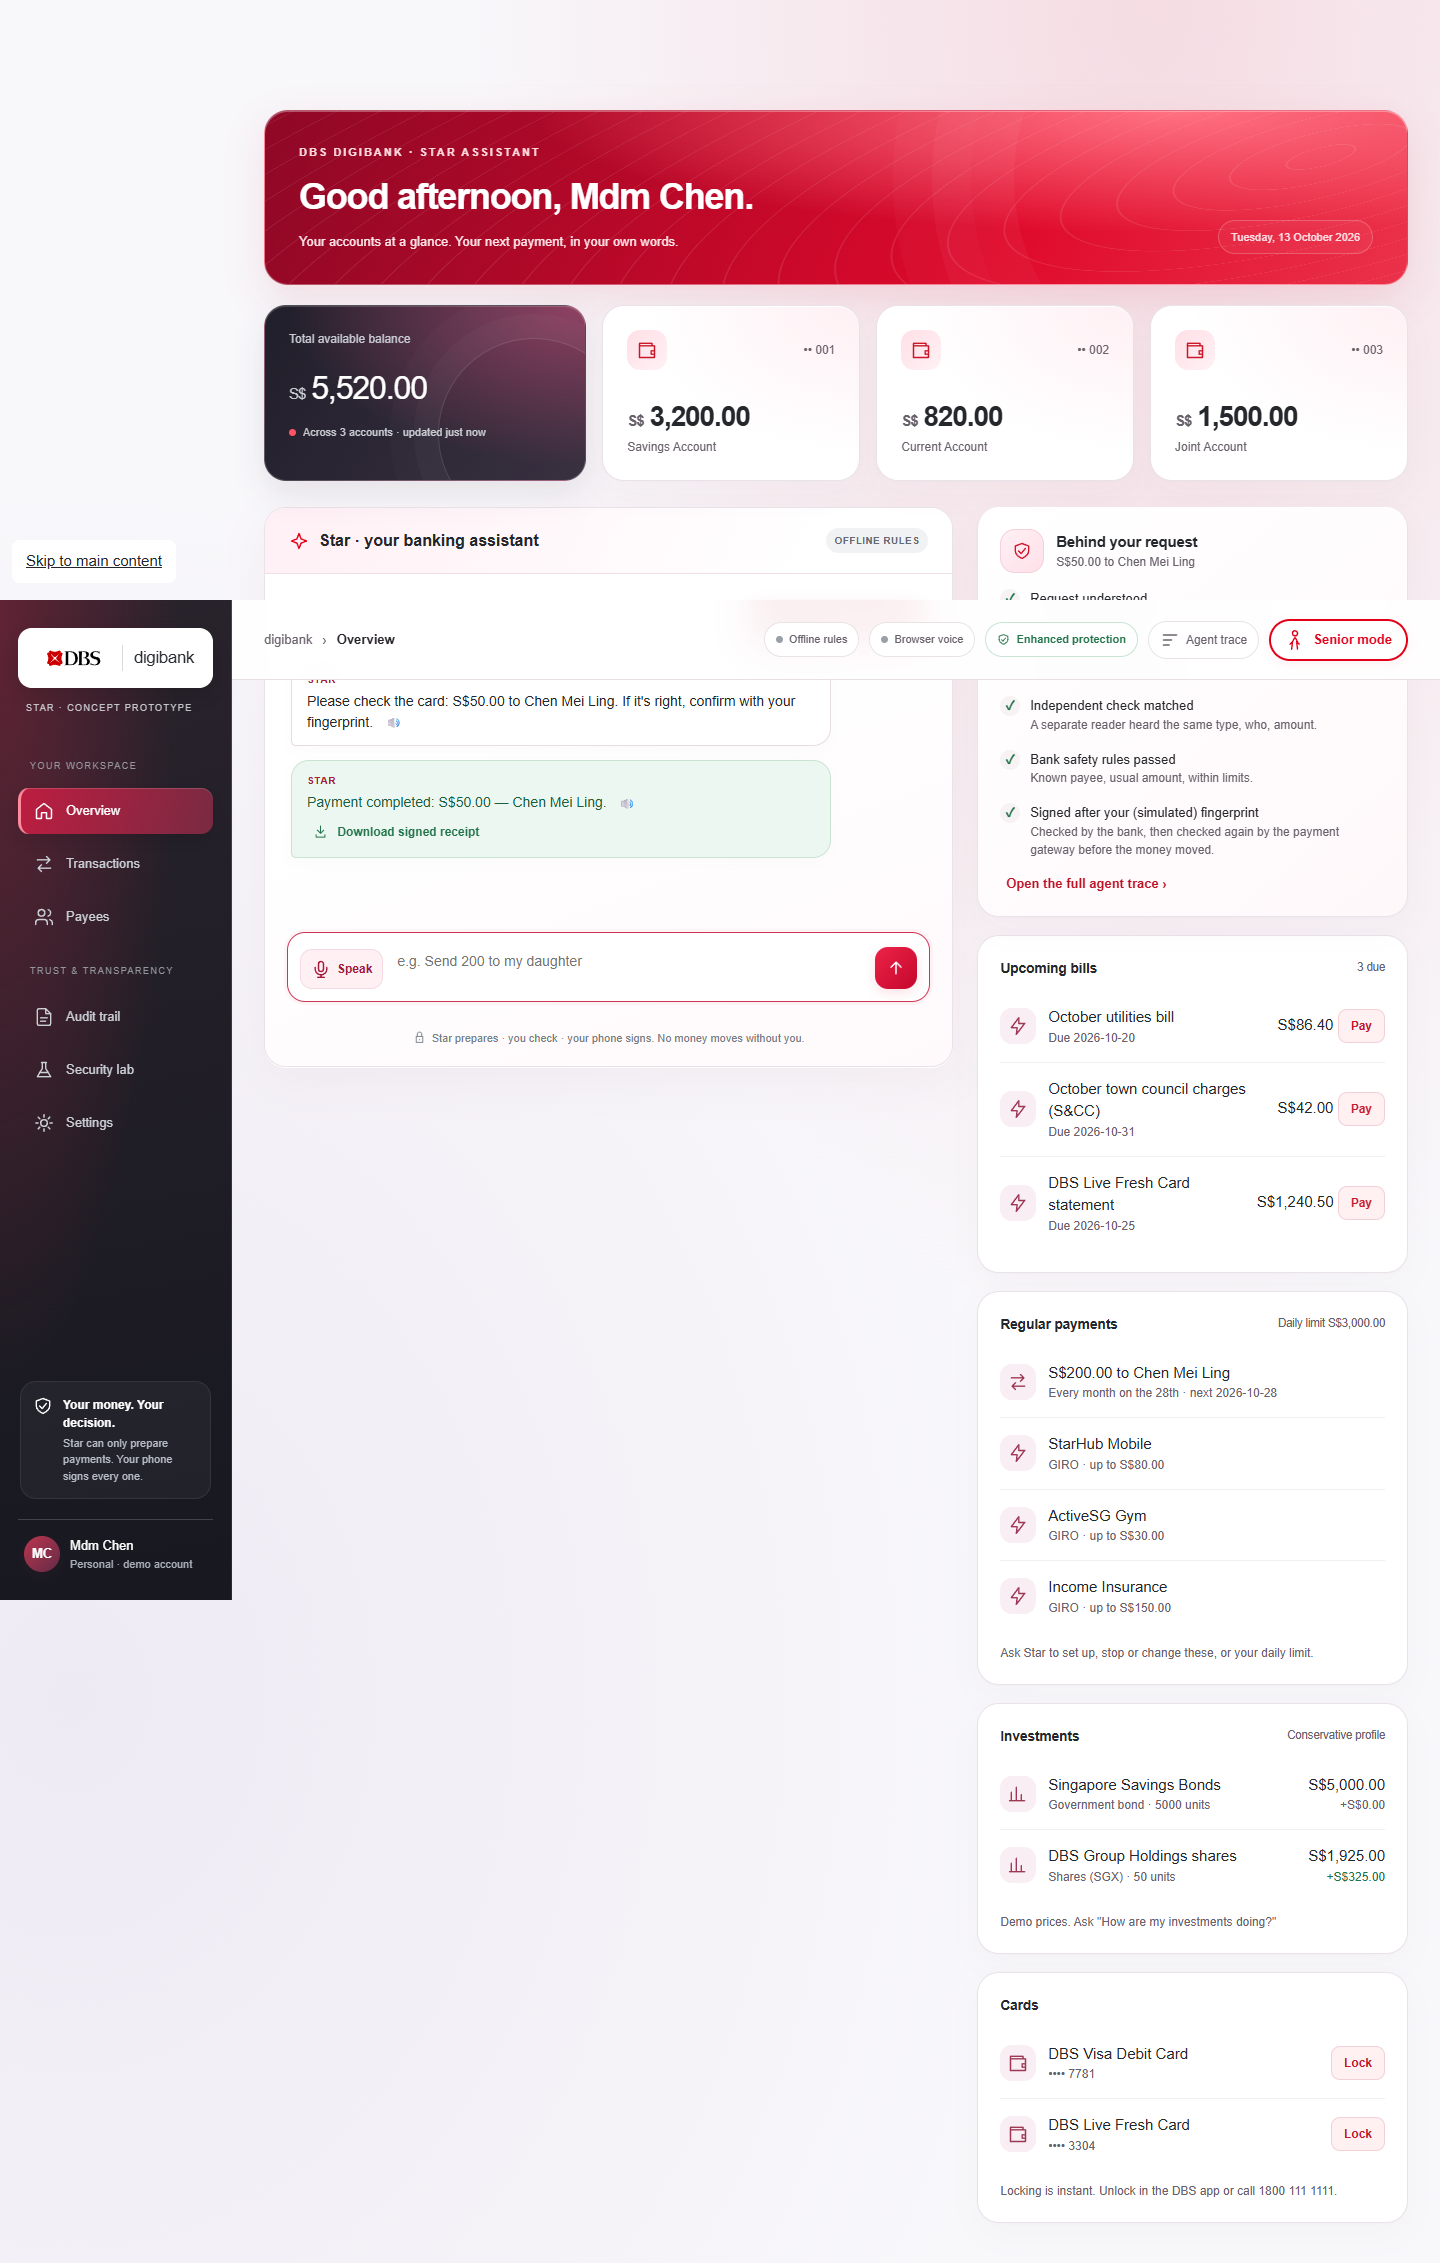
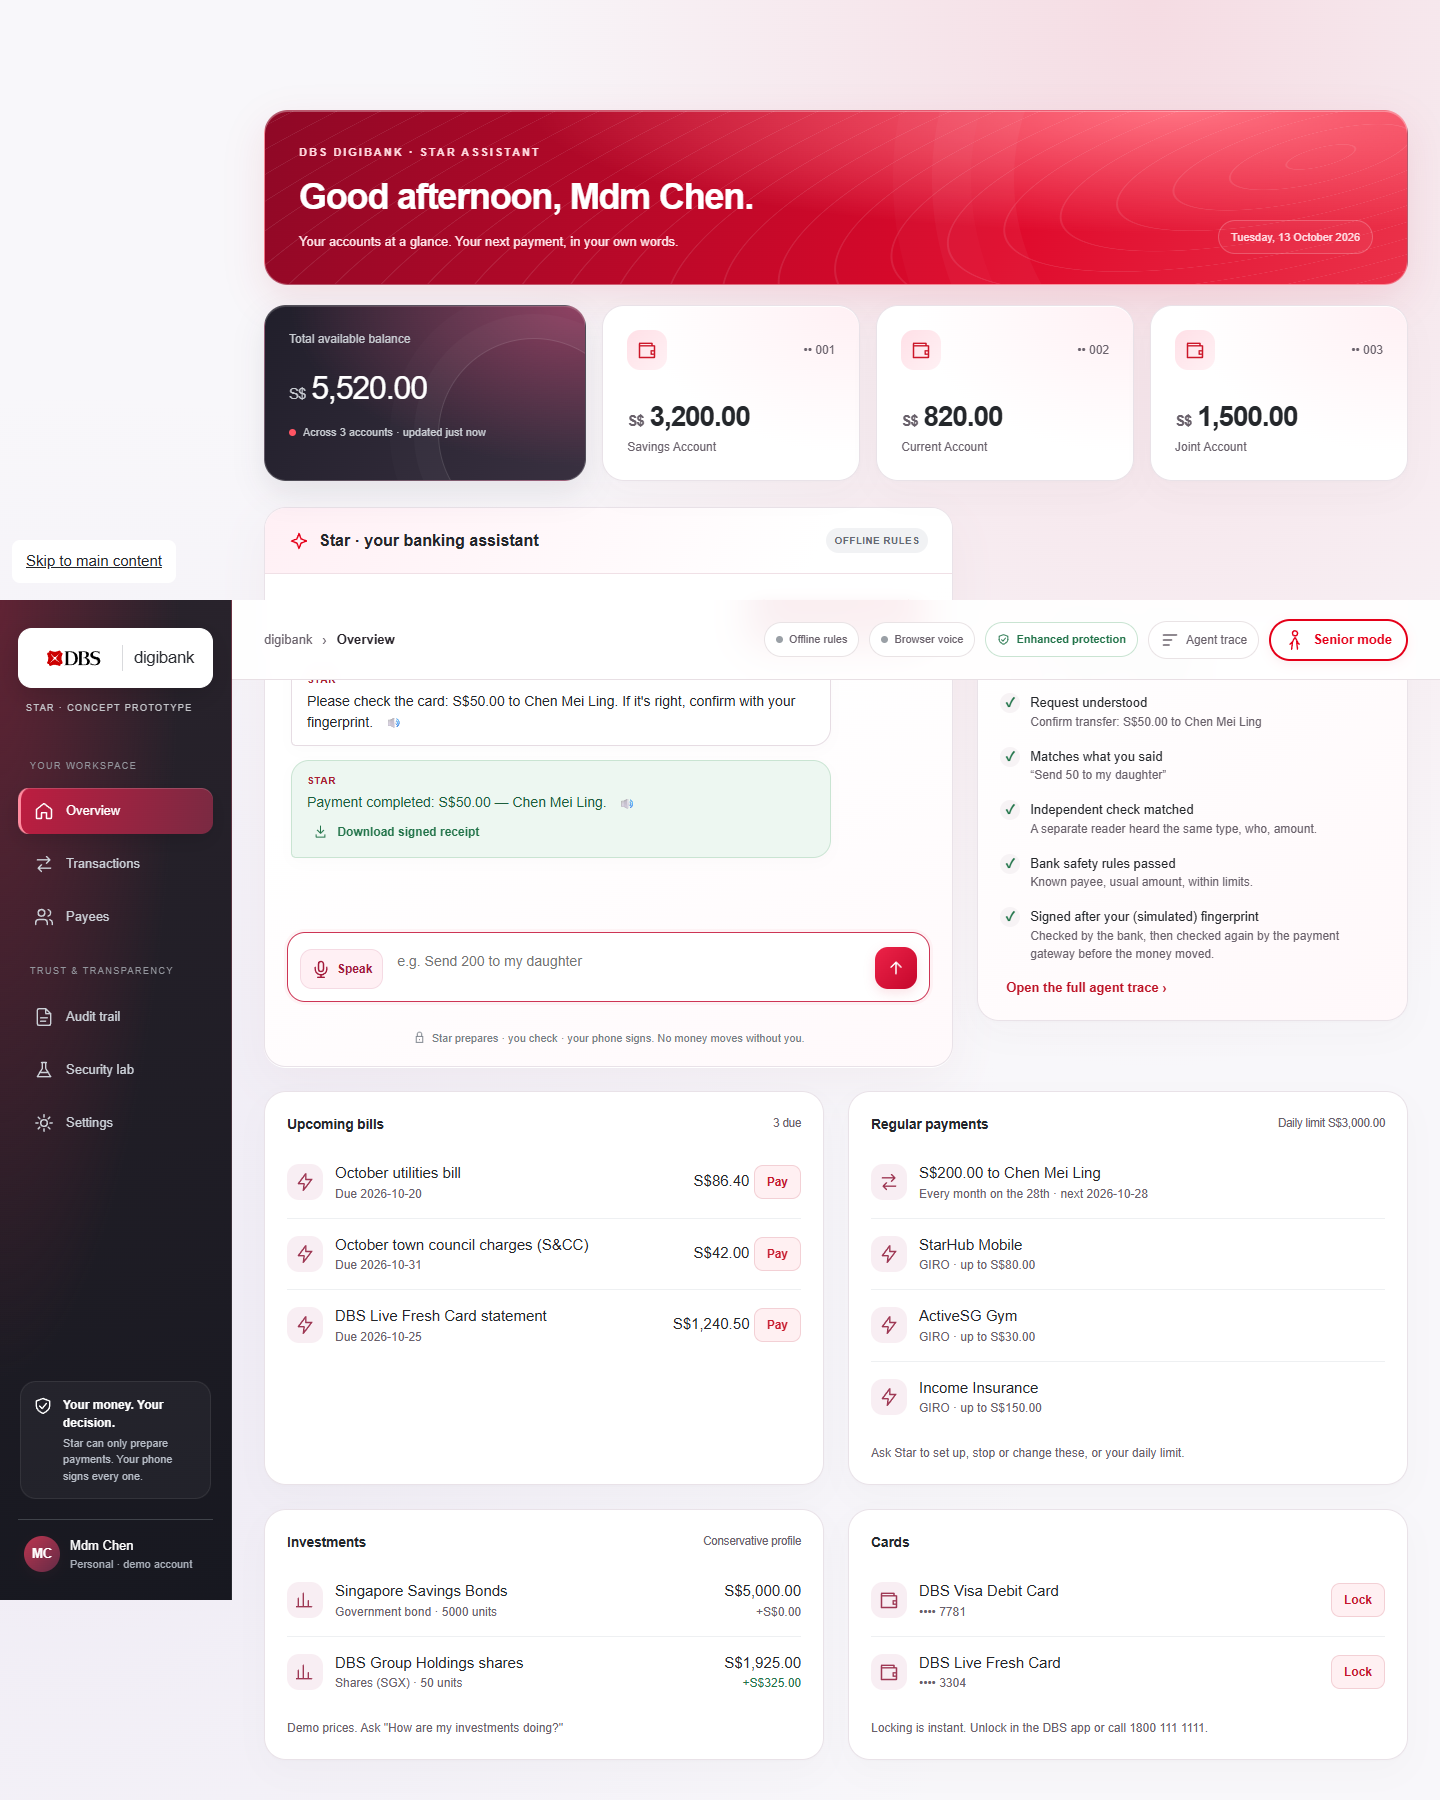
Balance overview card layout and update launch tagline

diff --git a/web/app.js b/web/app.js
@@ -185,9 +185,13 @@ function overview(m){
     <section class="accounts" id="accounts" aria-label="Accounts"></section>
     <div class="main-grid">
       ${assistantHtml()}
-      <div class="side-stack"><section class="card safety" id="safety" aria-live="polite"></section><section class="card bills" id="bills"></section>
-        <section class="card bills" id="regular"></section>
-        <section class="card bills" id="holdings"></section><section class="card bills" id="cards"></section></div>
+      <section class="card safety" id="safety" aria-live="polite"></section>
+    </div>
+    <div class="overview-details">
+      <section class="card bills" id="bills"></section>
+      <section class="card bills" id="regular"></section>
+      <section class="card bills" id="holdings"></section>
+      <section class="card bills" id="cards"></section>
     </div>`;
   bindAssistant(); renderAccounts(); renderSafety(); renderBills(); renderHoldings();
 }

diff --git a/web/index.html b/web/index.html
@@ -19,7 +19,7 @@
       <span class="welcome-edition">A new way to bank</span>
     </header>
     <main class="welcome-main">
-      <p class="welcome-eyebrow"><span></span> LESS TAPPING. MORE LIVING.</p>
+      <p class="welcome-eyebrow"><span></span> LIVE MORE. BANK LESS.</p>
       <h1 id="welcome-title">Banking, simply<br><span>by speaking.</span></h1>
       <p class="welcome-description">Meet Star, your conversational banking assistant.<br>Just say what's on your mind. We'll take it one step at a time.</p>
       <button class="welcome-enter" id="welcome-enter" type="button"><span>Meet Star <span class="welcome-button-divider">/</span> Get started</span><span class="welcome-arrow" aria-hidden="true">↗</span></button>

diff --git a/web/styles.css b/web/styles.css
@@ -147,6 +147,9 @@ main{width:100%;max-width:1480px;margin:0 auto;padding:28px 32px 40px}
 
 .main-grid{display:grid;grid-template-columns:minmax(0,1.6fr) minmax(290px,1fr);gap:22px;align-items:start}
 .side-stack{display:grid;gap:18px}
+.overview-details{display:grid;grid-template-columns:repeat(2,minmax(0,1fr));gap:24px;margin-top:24px;align-items:stretch}
+@media(min-width:1181px){.main-grid>.safety{position:sticky;top:104px}}
+@media(max-width:820px){.overview-details{grid-template-columns:minmax(0,1fr);gap:18px;margin-top:18px}}
 
 /* ---------------- Assistant ---------------- */
 .assistant{display:flex;flex-direction:column;min-height:560px}
